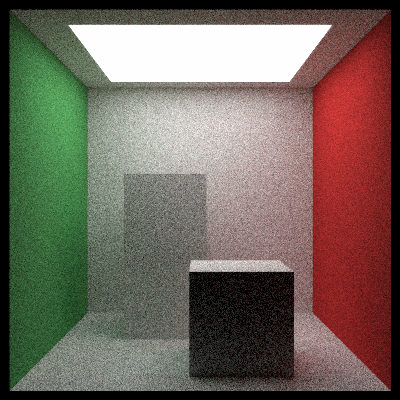
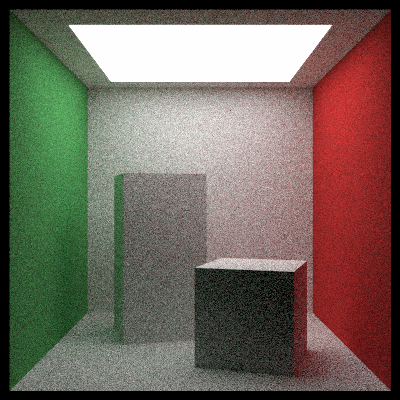
Add cornell with rotations

Changed region(s): [[0.03, 0.0, 0.99, 0.99]]

diff --git a/Ray-Tracer/src/main.cpp b/Ray-Tracer/src/main.cpp
@@ -220,7 +220,7 @@ static std::tuple<HittableList, Camera> cornell_box() {
 		.fov = 40,
 		.width = 400,
 		.max_depth = 40,
-		.samples_per_pixel = 100,
+		.samples_per_pixel = 10000,
 	};
 	Camera camera(config);
 	camera.look_from(Point3(278, 278, -800));
